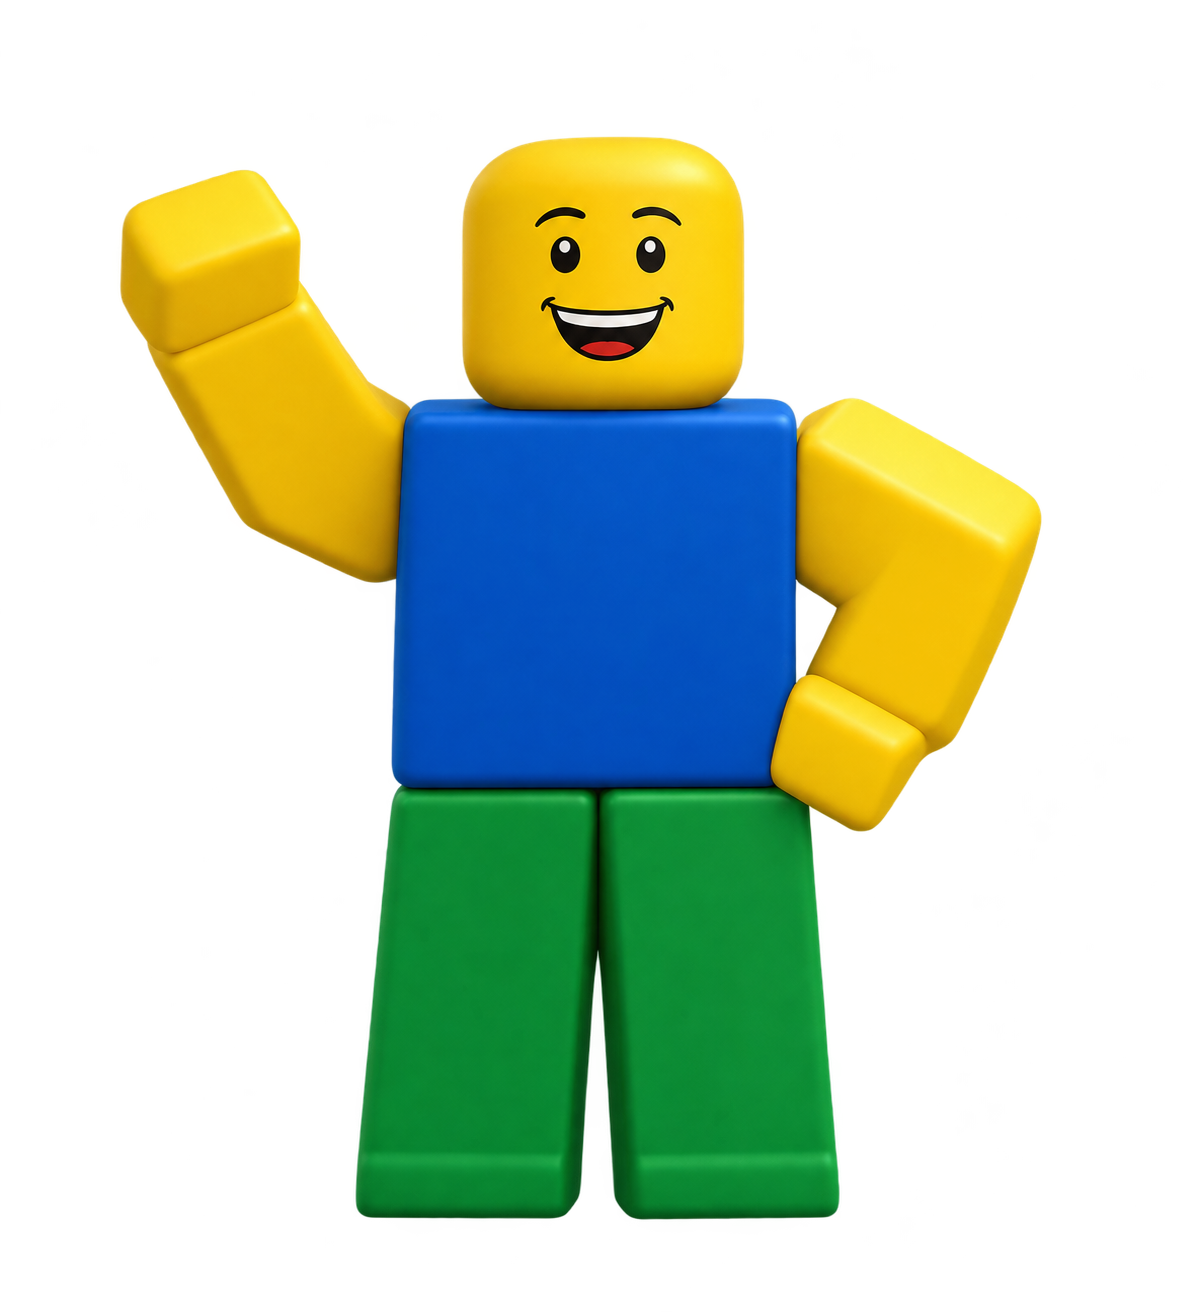
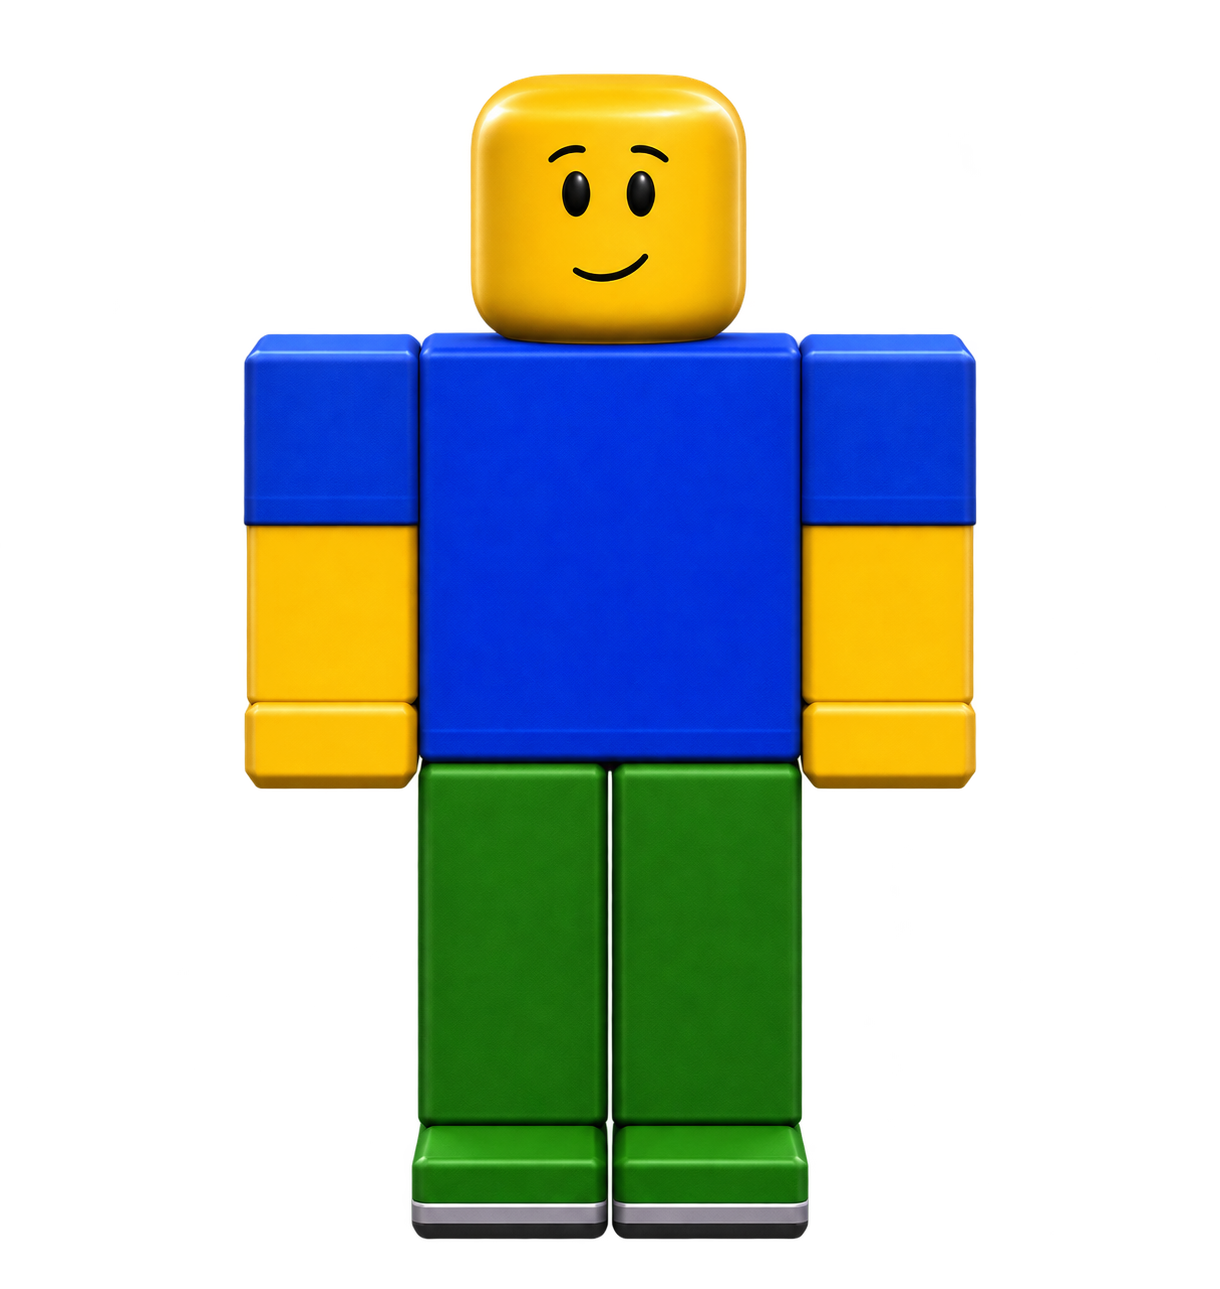
Add free release visual regression suite and approved rookie artwork

diff --git a/ChildGrowthNative/src/app/parent-dashboard.tsx b/ChildGrowthNative/src/app/parent-dashboard.tsx
@@ -175,7 +175,7 @@ function ParentDashboard() {
     <SafeAreaView style={styles.safeArea}>
       <SettingsModal visible={settingsOpen} onClose={() => setSettingsOpen(false)} />
       <KeyboardAvoidingView style={styles.keyboardLayer} behavior={Platform.OS === 'ios' ? 'padding' : 'height'}>
-      <ScrollView ref={page} contentContainerStyle={styles.container} showsVerticalScrollIndicator={false} keyboardShouldPersistTaps="handled" keyboardDismissMode={Platform.OS === 'ios' ? 'interactive' : 'on-drag'}>
+      <ScrollView ref={page} contentContainerStyle={styles.container} showsVerticalScrollIndicator={false} keyboardShouldPersistTaps="handled" keyboardDismissMode={Platform.OS === 'web' ? 'none' : Platform.OS === 'ios' ? 'interactive' : 'on-drag'}>
         <SyncActivity />
         {parentTab === 'overview' && <FamilyChallenge />}
         {syncError && <Text style={{ color: Colors.amber }}>{t(syncError)}</Text>}
@@ -673,7 +673,7 @@ function ParentDashboard() {
 
         {/* Dedicated Language Preference Section */}
         <View style={[styles.section, parentTab !== 'family' && styles.hidden]}>
-          <View style={{ flexDirection: 'row', alignItems: 'center', justifyContent: 'space-between', backgroundColor: Colors.surface, padding: 14, borderRadius: 14, borderWidth: 1, borderColor: Colors.border }}>
+          <View style={{ flexDirection: 'row', alignItems: 'center', justifyContent: 'space-between', flexWrap: 'wrap', gap: 12, backgroundColor: Colors.surface, padding: 14, borderRadius: 14, borderWidth: 1, borderColor: Colors.border }}>
             <Text style={{ fontFamily: 'Nunito_800ExtraBold', color: Colors.textSecondary, fontSize: 13 }}>
               🌐 {t('settings_language')}
             </Text>

diff --git a/ChildGrowthNative/src/app/(tabs)/index.tsx b/ChildGrowthNative/src/app/(tabs)/index.tsx
@@ -239,7 +239,7 @@ export default function QuestsScreen() {
       <Button secondary label={t('family_view_invitation')} onPress={() => router.push('/link-account')} />
       <Button secondary label={`🌙 ${t('day_rest')}`} onPress={() => s.setSick(true)} />
       <Button secondary disabled={claimingGift || s.dailyChestClaimedDate === today} label={t(claimingGift ? 'reminder_saving' : s.dailyChestClaimedDate === today ? 'gift_collected' : 'gift_collect')} onPress={async () => { if (claimingGift) return; setClaimingGift(true); try { const r = await s.claimDailyLoginChest(); setMessage(r ? t('gift_received', { coins: r.coins, xp: r.xp }) : t('reward_connect_retry')); } finally { setClaimingGift(false); } }} />
-      {s.tasks.filter(task => !tasks.some(a => a.id === task.id)).map(task => <View key={task.id}><Text style={ui.text}>{t(task.name, task.name)}</Text><Text style={ui.meta}>{task.postponedUntil ? t('day_moved', { date: new Date(`${task.postponedUntil}T12:00:00`).toLocaleDateString(i18n.language) }) : t(`freq_${task.freq}`)}</Text></View>)}
+      {s.tasks.filter(task => !tasks.some(a => a.id === task.id)).map(task => <View key={task.id}><Text style={ui.text}>{t(task.name, task.name)}</Text><Text style={ui.meta}>{task.postponedUntil ? t('day_moved', { date: new Date(`${task.postponedUntil}T12:00:00`).toLocaleDateString(i18n.language) }) : task.freq === 'once' ? `${t('schedule_once')} · ${new Date(`${task.scheduledDate}T12:00:00`).toLocaleDateString(i18n.language)}` : task.freq === 'custom' ? t('schedule_choose_days') : t(`freq_${task.freq}`)}</Text></View>)}
     </View>}
   </Screen>;
 }

diff --git a/ChildGrowthNative/tests/visual/README.md b/ChildGrowthNative/tests/visual/README.md
@@ -1,0 +1,45 @@
+# Free Questblox release checks
+
+Use the isolated package so browser tooling does not change the native Expo runtime fingerprint.
+
+## Browser visual and user-flow suite
+
+```
+npm ci --prefix tests/visual
+npx --prefix tests/visual playwright install chromium
+# Serve a clean Expo web export on 8083 before running.
+QB_VISUAL_URL=http://127.0.0.1:8083 npx --prefix tests/visual playwright test --config tests/visual/playwright.config.cjs
+```
+
+For authenticated flows, set `QB_TEST_PARENT_EMAIL`, `QB_TEST_CHILD_EMAIL`, and `QB_TEST_PASSWORD` to disposable connected QA accounts. Never use a child's real account. Without credentials authenticated tests are explicitly skipped. Reward text tests edit drafts without saving. Backend mutation tests use local emulators.
+
+The matrix covers English and Czech at 360×740, 412×915 and 768×1024: role selection, sign-in, registration, child tabs, reminders, linking, recovery, all four parent sections, reward typing, task creation and scheduling. It checks horizontal text overflow, captures screenshots, and saves failure traces. Hidden legacy routes and state-dependent screens are not full coverage. Native Android IME, alarm delivery, camera scanning, system bars, and Google OAuth require device testing.
+
+Generate candidate screenshots with `--update-snapshots`, review them manually, then rerun without that flag. A first baseline run does **not** establish visual correctness. Local baselines are ignored until reviewed; do not blindly approve changed baselines. Keep browser/OS versions stable for comparisons. Reports can contain QA profile information: keep them private.
+
+Long repeat run (no paid service):
+
+```
+npx --prefix tests/visual playwright test --config tests/visual/playwright.config.cjs --repeat-each=10
+```
+
+This is repeated regression testing, not server load testing or proof of absence of memory leaks. For a true device soak, leave an authenticated disposable family active for 30–60 minutes while repeatedly switching tabs, completing/resetting disposable quests, requesting/delivering rewards, reconnecting network and backgrounding the app. Record latency, crashes, duplicate awards, lost edits, and memory growth. Do not target production with synthetic load.
+
+## Release gates
+
+- TypeScript and all four translation catalogs.
+- Quest, account, reminder, offline queue/recovery and push unit tests.
+- Full Firebase auth/Firestore emulator suite: access rules, pairing consent, task revisions, concurrent edits, idempotency, rewards, deletion, real listeners.
+- Reviewed screenshots plus a second comparison run; small viewport and long authored strings.
+- Native Android test: gesture/three-button navigation, large font/display settings, keyboard open in every form; bottom actions and focused input must remain reachable.
+- Native notification test: permission denied/granted, exact-alarm permission, 00:00/23:59, background, restart, task completion cancellation, timezone change. Browser checks cannot prove these.
+- Two-device family checks: QR and code pairing with child acceptance; parent edits/completion; reward request/approve/deliver; offline/reconnect; sibling/account switching.
+- Release identity: correct package, runtime/channel, backend deployed, clean scoped diff and rollback version recorded.
+
+## Tool choices and official references
+
+- Playwright (local): screenshot comparisons, user flows and trace viewer. https://playwright.dev/docs/test-snapshots
+- Maestro CLI (local): native Android flows on an attached device/emulator. https://docs.maestro.dev/maestro-cli
+- Firebase Emulator Suite (local): isolated authorization/concurrency tests. https://firebase.google.com/docs/emulator-suite
+
+No paid Applitools, Maestro Cloud or device farm is required. A local Android device/emulator is still required for native coverage.
